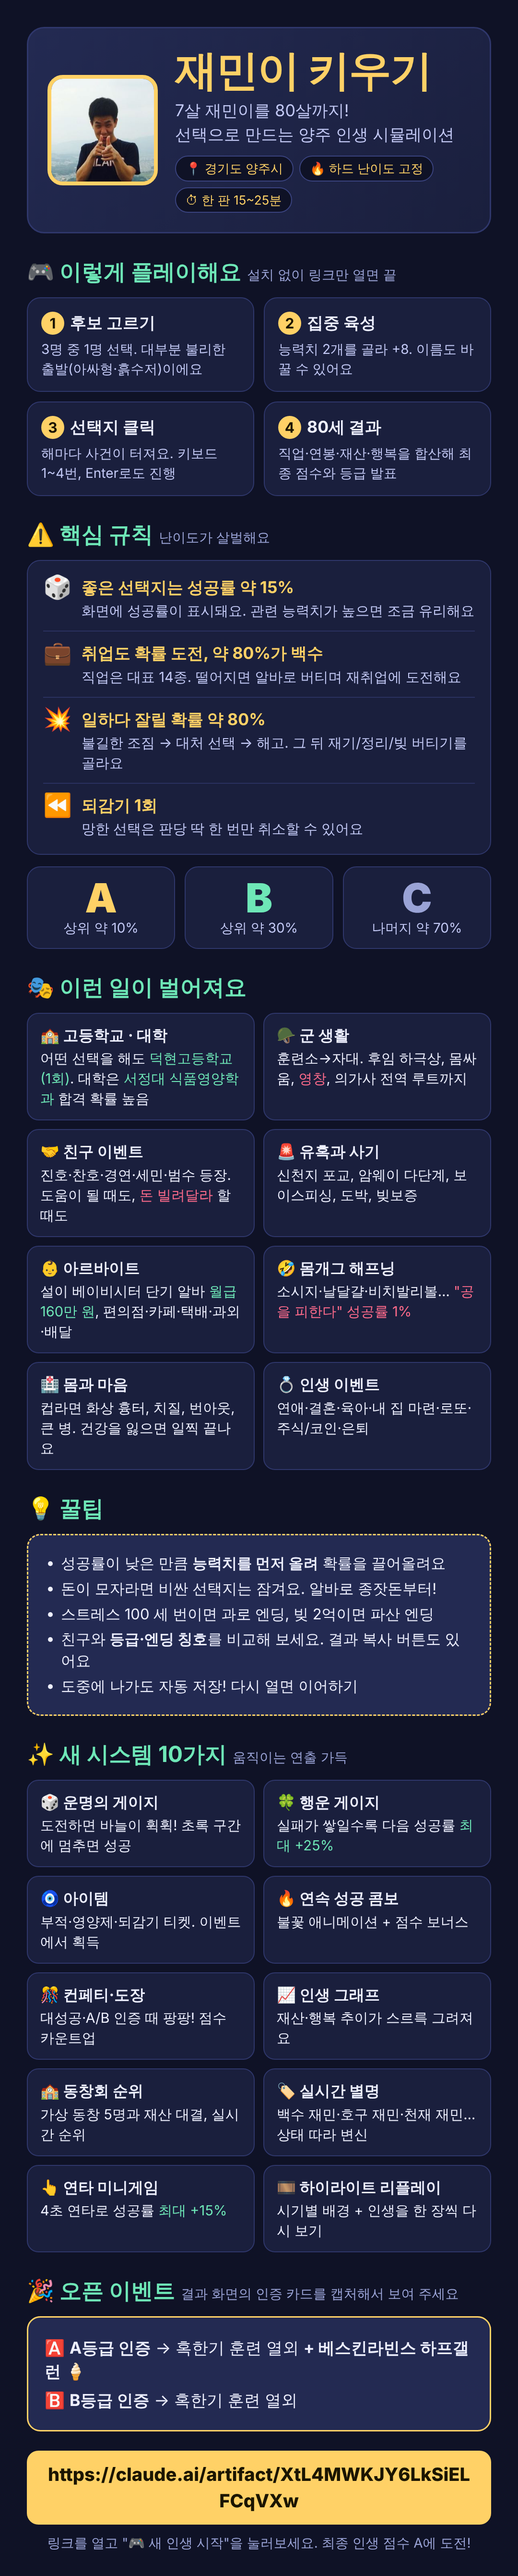
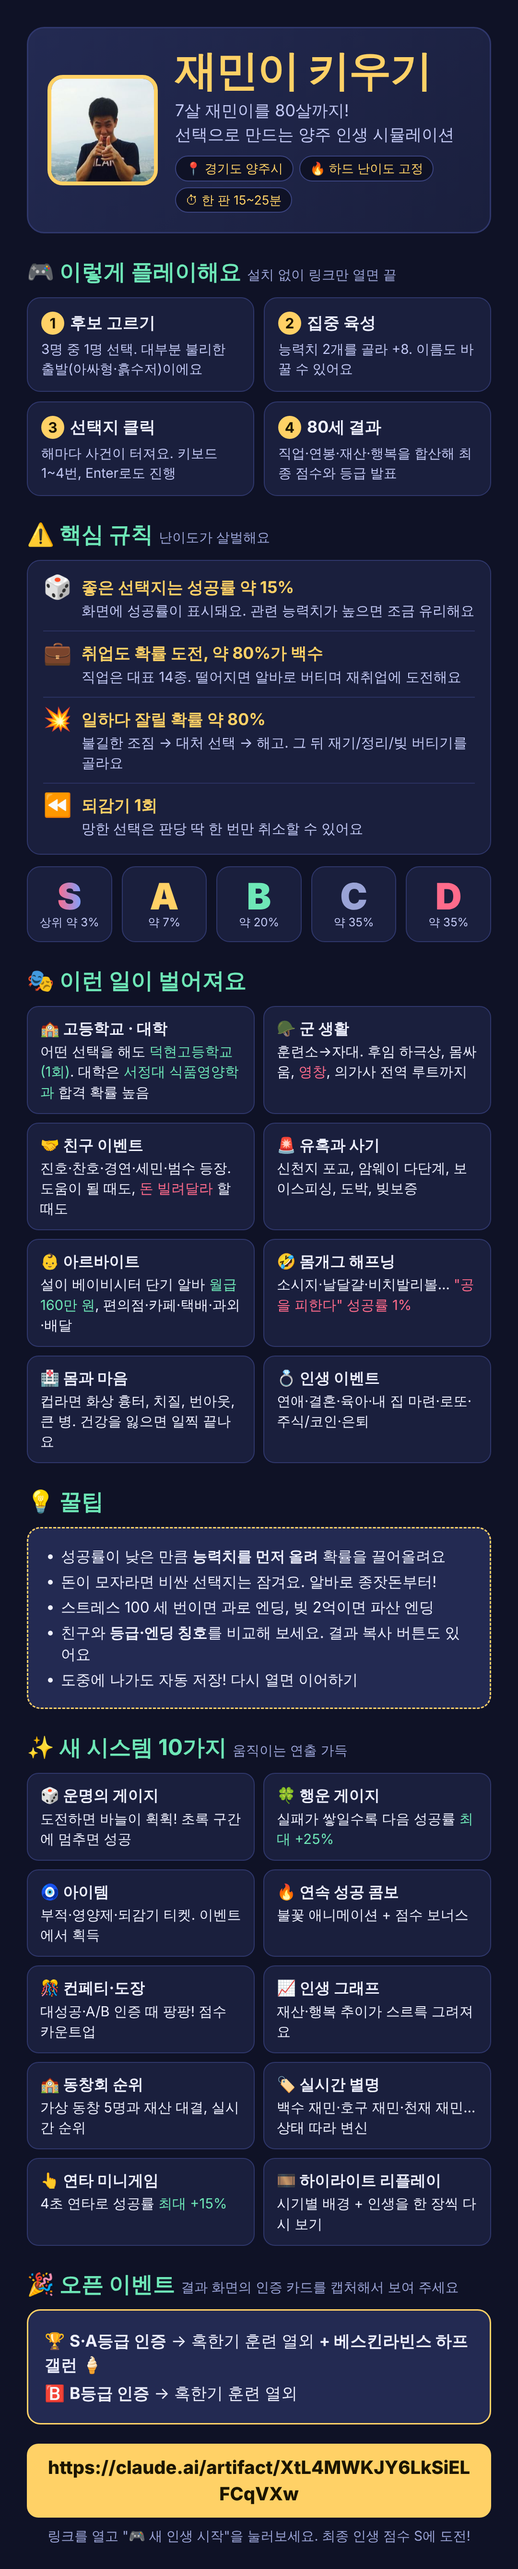
등급을 S·A·B·C·D 5단계로 세분화, 오픈 이벤트는 S·A 열외+하프갤런
Claude-Session: https://claude.ai/code/session_01KcVp1sZmDzAR7Cn2msBevK

diff --git a/index.html b/index.html
@@ -99,6 +99,8 @@ body[data-stage=old]::before{background-image:linear-gradient(135deg,#6a4a2a44,#
 .nick.pop{animation:nickpop 1.2s}@keyframes nickpop{0%{transform:scale(.4);opacity:0}50%{transform:scale(1.4)}100%{transform:scale(1);opacity:1}}
 .pill.rk{animation:pop .8s}
 #app{overflow-x:clip}.card.center{overflow:hidden}
+.grade.gS{background:linear-gradient(90deg,#ffd166,#ff6b8b,#7aa2ff,#6ee7b7);-webkit-background-clip:text;background-clip:text;color:transparent;filter:drop-shadow(0 0 10px #ffd16688)}
+.grade.gD{color:var(--bad)}.grade.gC{color:var(--mut)}
 .grade.stamp{animation:stampin .7s cubic-bezier(.2,1.6,.4,1) both}
 @keyframes stampin{0%{transform:scale(4) rotate(-25deg);opacity:0}60%{transform:scale(.9) rotate(-5deg);opacity:1}100%{transform:scale(1) rotate(-3deg)}}
 .chart{width:100%;height:auto;margin-top:8px}
@@ -1266,7 +1268,7 @@ function calc(){
   let pen=S.over==='bankrupt'?-80:S.over==='health'?-70:S.over==='karoshi'?-90:0;
   const parts=[['재산',wealth,250],['연봉',inc,100],['행복',hap,150],['능력',abil,100],['가족',fam,110],['업적',ach,100],['콤보',Math.min(60,(S.maxCombo||0)*10),60],['스트레스',stp,0],['엔딩',pen,0]];
   const total=Math.round(parts.reduce((p,x)=>p+x[1],0));
-  const grade=total>=280?'A':total>=172?'B':'C'; /* 목표 비율 A:B:C = 1:2:7 (자동 플레이 500판 기준 보정) */
+  const grade=total>=385?'S':total>=252?'A':total>=158?'B':total>=90?'C':'D'; /* 목표 비율 S3 : A7 : B20 : C35 : D35 (자동 플레이 기준 보정) */
   return {total,grade,parts};
 }
 function ending(){
@@ -1373,10 +1375,10 @@ function endView(){
   if(!S.done){S.done=1;META.runs++;META.pts+=Math.floor(sc.total/40)+1;META.best=Math.max(META.best,sc.total);
     META.ranks.push({name:S.name,score:sc.total,grade:sc.grade,title:en[1],age:S.age,job:S.job?JOBS[S.job].n:'-',net:Math.round(net()),d:new Date().toLocaleDateString('ko-KR')});
     META.ranks.sort((a,b)=>b.score-a.score);META.ranks=META.ranks.slice(0,20);checkAch();saveMeta();try{localStorage.removeItem('jmk_save')}catch(e){}}
-  sc.grade==='F'||S.over&&S.over!=='natural'?sBad():sGood();
+  sc.grade==='D'||S.over&&S.over!=='natural'?sBad():sGood();
   const ach=Object.keys(S.runAch).map(id=>ACH.find(a=>a[0]===id)[1]);
-  const share=`🧒 재민이 키우기 | ${S.name} (${S.age}세) | 등급 ${sc.grade} · ${sc.total}점 | ${en[1]} | ${sc.grade==='A'?'🎁 A인증(열외+하프갤런) '+stampCode(S.name,sc.total,S.age,sc.grade):sc.grade==='B'?'🎁 B인증(열외) '+stampCode(S.name,sc.total,S.age,sc.grade):'이벤트 도전 중'} | 직업 ${S.job&&S.job!=='none'?JOBS[S.job].n:'없음'} | 순자산 ${fmt(net())} | 연봉 최고 ${fmt(S.peakS)}`;
-  $('#main').innerHTML=`<div class="card center"><div class="big-av">${avatar(210)}</div><div class="mut">최종 인생 점수</div><div class="grade stamp">${sc.grade}</div><h2 id="scoreNum">0점</h2><div class="nick" style="margin:0 0 6px">🏷 ${esc(S.nick||'')}</div>
+  const share=`🧒 재민이 키우기 | ${S.name} (${S.age}세) | 등급 ${sc.grade} · ${sc.total}점 | ${en[1]} | ${(sc.grade==='S'||sc.grade==='A')?'🎁 '+sc.grade+'인증(열외+하프갤런) '+stampCode(S.name,sc.total,S.age,sc.grade):sc.grade==='B'?'🎁 B인증(열외) '+stampCode(S.name,sc.total,S.age,sc.grade):'이벤트 도전 중'} | 직업 ${S.job&&S.job!=='none'?JOBS[S.job].n:'없음'} | 순자산 ${fmt(net())} | 연봉 최고 ${fmt(S.peakS)}`;
+  $('#main').innerHTML=`<div class="card center"><div class="big-av">${avatar(210)}</div><div class="mut">최종 인생 점수</div><div class="grade stamp g${sc.grade}">${sc.grade}</div><h2 id="scoreNum">0점</h2><div class="nick" style="margin:0 0 6px">🏷 ${esc(S.nick||'')}</div>
   <div style="font-size:40px">${en[0]}</div><h2>${en[1]}</h2><p class="mut">${en[2]}</p></div>
   ${evtCard(sc,en)}
   <div class="card"><b>📈 내 인생 그래프</b>${chartSVG(S.hist)}</div>
@@ -1390,7 +1392,7 @@ function endView(){
   <div class="row"><button class="btn c" id="shr">📋 결과 복사/공유</button><button class="btn c" id="rk">🏅 랭킹 보기</button></div>`;
   $('#rpl').onclick=replay;
   countUp($('#scoreNum'),sc.total,1300);
-  if(sc.grade==='A'||sc.grade==='B')setTimeout(()=>confetti(sc.grade==='A'?220:140),500);
+  if(sc.grade==='S'||sc.grade==='A'||sc.grade==='B')setTimeout(()=>confetti(sc.grade==='S'?320:sc.grade==='A'?220:140),500);
   $('#again').onclick=()=>{S=null;VIEW='create';create()};
   $('#shr').onclick=()=>{try{navigator.clipboard.writeText(share);toast('복사했어요!')}catch(e){prompt('복사하세요',share)}};
   $('#rk').onclick=()=>{VIEW='rank';rankView()};
@@ -1410,8 +1412,8 @@ function stampCode(name,score,age,grade){
 }
 function evtCard(sc,en){
   const d=new Date().toLocaleDateString('ko-KR');
-  if(sc.grade==='A'||sc.grade==='B'){
-    const rw=sc.grade==='A'?'혹한기 훈련 열외 + 베스킨라빈스 하프갤런 🍦':'혹한기 훈련 열외';
+  if(sc.grade==='S'||sc.grade==='A'||sc.grade==='B'){
+    const rw=(sc.grade==='S'||sc.grade==='A')?'혹한기 훈련 열외 + 베스킨라빈스 하프갤런 🍦':'혹한기 훈련 열외';
     return `<div class="cert"><div class="mut">🎉 재민이 게임 오픈 이벤트</div>
      <h2>${sc.grade}등급 인증!</h2>
      <p><b>${esc(S.name)}</b> · ${sc.total}점 · ${S.age}세 · ${esc(en[1])}</p>
@@ -1419,7 +1421,7 @@ function evtCard(sc,en){
      <div class="code">${stampCode(S.name,sc.total,S.age,sc.grade)}</div>
      <p class="mut">${d} · 이 카드를 캡처해서 재민이에게 보여 주세요!</p></div>`;
   }
-  return `<div class="evt"><h3>🎉 오픈 이벤트</h3><p>아쉽지만 C등급이에요. <b>B등급 이상</b>이면 혹한기 훈련 열외!<br>A등급이면 베스킨라빈스 하프갤런까지 🍦</p><p class="mut">다시 키우기로 재도전하세요!</p></div>`;
+  return `<div class="evt"><h3>🎉 오픈 이벤트</h3><p>아쉽지만 ${sc.grade}등급이에요. <b>B등급 이상</b>이면 혹한기 훈련 열외!<br>A등급 이상이면 베스킨라빈스 하프갤런까지 🍦</p><p class="mut">다시 키우기로 재도전하세요!</p></div>`;
 }
 function rankView(){
   const rk=META.ranks;
@@ -1429,7 +1431,7 @@ function rankView(){
   <button class="btn pri" id="back">◀ 돌아가기</button>`;
   $('#back').onclick=()=>{VIEW=S&&S.over?'play':'title';render()};
 }
-const FEATURES=['시작 후보 3명 중 선택(불리한 출발 80% : 좋은 출발 20%, 아싸형·불우한 환경 위주)','집중 육성 능력치 2개','태어난 집안(금수저/평범/흙수저)','숨은 재능 8종(천재, 강골, 행운아, 불운의 아이 등)','오늘의 운세(날짜별 확률 보정)','하드 난이도 고정(성공률 대폭 하향: 전체 ×0.75 -8%, 관련 능력치가 낮으면 더 불리, 스트레스 ×1.4, 지출 ×1.3)','재미있게 공부한다(머리가 안 따라주면 실패) 등 능력치 의존 도전 선택지','정상 만기 전역도 확률 도전(실패하면 적응 위기 → 도움 요청 → 의가사 루트)','환생 포인트로 능력치 보너스','7~80세 나이별 아바타 변화','시즌(해)마다 스트레스·행복 자동 변동','확률 도전 선택지(성공률 표시)','능력치에 따른 성공률 보정','학원/동아리/연애 등 성장기 이벤트 15종','수능 결과 → 대학 선택 → 재수','군대 이벤트(카투사 도전)','대표 직업 14종 + 백수(의사·변호사·개발자·대기업·공무원·교사·중소기업·경찰/소방·직업군인·요리사·유튜버·연예인·운동선수·창업가), 능력·학력 요건 잠금','입사 연봉 협상 미니게임','정기 연봉 협상(성과/이직 카드)','승진 심사와 직급 체계','이직 제안','갑질 상사/구조조정','가변 소득 직업(유튜버·연예인·창업가 등)','운동선수 전성기·은퇴 기로','부업 이벤트','주식/코인 투자(변동성 시뮬)','경제 위기·대세상승장 이벤트','내 집 마련(영끌)','로또(2% 당첨)','보이스피싱','빚보증 / 사촌의 투자 권유','도박 중독과 단도박 이벤트','창업 대박 아이디어','유튜브 채널 개설','국회의원 출마(히든 루트)','소개팅 → 연애 → 프러포즈 → 결혼','자녀 시스템과 육아·입시','이혼 위기','반려동물 입양','여행/취미/동창회 이벤트','건강검진·큰 병·교통사고','번아웃 3회 시 과로 엔딩','유산 상속','부모님 간병','정년퇴임과 연금','손주 탄생','마지막 선택(기부/가족/탕진)','24개 업적과 도감','엔딩 칭호 16종(성공·평범·망한 인생)','과거로 돌아가기(되감기 1회)','등급 A/B/C(목표 비율 1:2:7) + 점수 항목별 그래프','인생 이야기 타임라인','로컬 랭킹 TOP20','결과 공유 텍스트 복사','자동 저장·이어하기·파일 내보내기/가져오기','효과음 & 라이트/다크 테마','키보드 단축키(1~4, Enter)','실명 친구 4인(이진호·이찬호·김경연·박세민) 사귐/거절 이벤트와 후속 이벤트','친구 둘 이상 사귀면 사총사 모임 발생','신천지 포교 → 탈퇴 시도 연계 이벤트','암웨이(다단계) 가입 → 재고 처리 연계 이벤트','여자친구를 따라 부산으로 이사 이벤트','인형뽑기·코인노래방·UFO·점집·치킨집·헬스장 등 소소한 선택지','군 복무 연쇄 이벤트(훈련소→자대→중반→전역)','군 적응 위기 시 도움 요청 선택지와 상담전화 안내','의가사 전역 루트와 전역 후 마음 돌보기 이벤트','후임 하극상 → 몸싸움 → 징계/영창 연쇄 이벤트','경기도 양주시 배경 이벤트(덕정역 출퇴근·나리공원·불곡산·별산대놀이·장흥·옥정/회천 신도시)','기분 좋아서 쏘다가 지갑 털리는 이벤트(하프갤런·피자·치킨)','몸개그 해프닝(오이고추 가방·소시지·날달걀·비치발리볼·방귀)','화상 흉터 이벤트(컵라면·치킨 튀김 알바)','전범수와의 말싸움 이벤트','같은 반 친구와 눈 마주치는 순한 짝사랑 이벤트','재민이 사진이 모든 화면에 등장(로고·시작·캐릭터 만들기·7세부터 80세까지·결과)하고 직업·나이·기분·상황에 따라 사진과 모자/소품/테두리 변화','일하다 잘리는 스토리(직업을 가진 사람의 약 80%): 불길한 조짐 → 대처 선택 → 해고(폐업·권고사직·슬럼프·징계 등) → 재기/정리/빚 버티기','친구에게 돈 빌려주기(100만/500만/3000만) + 못 받은 돈 독촉 후속 이벤트','모든 선택지가 확률 도전(성공하면 원래 효과, 실패하면 역효과) · 창의적 초저확률 선택지(공을 피한다 1% 등)','늦잠·소나기·지하철 자리·가챠·층간소음·회식 폭탄주·타이어 펑크 등 신규 해프닝 8종','취업도 확률 도전(성공률 약 55%, 낮은 능력치면 더 낮음) · 실패하면 백수, 이후 재취업 도전 이벤트 · 약 80%가 백수로 사는 하드 난이도','아르바이트 이벤트(설이 베이비시터 단기알바 월급 160, 편의점·카페·택배·과외·배달 등)','모든 좋은 선택지는 극악 확률(약 15%)','치질(항문이 아픈) 스토리: 병원/좌욕/참기 선택 → 방치하면 수술 후속 이벤트','고교는 어떤 선택이든 덕현고등학교(1회) 입학 · 수능 후 서정대학교 식품영양학과(합격률 85%) 선택지','결과 멘트 자극적·웃기게 전면 개편(상황별 실패 멘트 50여 종 + 결과마다 💬 해설 한마디 + 성공 멘트 110여 개 재작성)','파산 기준 완화(빚 5억) · 백수 생활비 완화(40세부터, 부담 절반 이하) · 체력 노화 속도 완화로 80세 완주 비율 상승','오픈 이벤트: A등급 인증 → 혹한기 훈련 열외 + 베스킨라빈스 하프갤런 / B등급 인증 → 혹한기 훈련 열외 (시작 화면 배너 + 결과 인증 카드·도장 코드)','시스템① 운명의 게이지: 도전할 때마다 바늘이 움직여 성공/실패가 갈리는 연출','시스템② 행운 게이지(천장): 실패가 쌓일수록 다음 도전 성공률 최대 +25%','시스템③ 아이템: 행운의 부적·영양제·되감기 티켓 (이벤트에서 획득, 도전 전에 사용)','시스템④ 연속 성공 콤보: 불꽃 애니메이션 + 최고 콤보 점수 보너스','시스템⑤ 컨페티·도장 쾅·점수 카운트업 연출(대성공·A/B 인증)','시스템⑥ 인생 그래프: 재산·행복 추이가 애니메이션으로 그려짐','시스템⑦ 동창회 순위: 가상 동창 5명과 재산 비교, 실시간 순위·결과 막대 그래프','시스템⑧ 실시간 별명: 상태에 따라 별명이 바뀌고 팝업(백수 재민, 호구 재민, 천재 재민 등)','시스템⑨ 연타 미니게임: 4초 연타로 성공률 최대 +15%','시스템⑩ 시기별 배경 연출 + 인생 하이라이트 리플레이(타임라인 애니메이션 재생)','일상 코미디 이벤트 2탄 18종(종점 버스·배달 오배송·폰 분실·길거리 캐스팅·결혼식·캠핑·당근마켓·다이어트·바퀴벌레·방송 사고·돼지꿈 등)'];
+const FEATURES=['시작 후보 3명 중 선택(불리한 출발 80% : 좋은 출발 20%, 아싸형·불우한 환경 위주)','집중 육성 능력치 2개','태어난 집안(금수저/평범/흙수저)','숨은 재능 8종(천재, 강골, 행운아, 불운의 아이 등)','오늘의 운세(날짜별 확률 보정)','하드 난이도 고정(성공률 대폭 하향: 전체 ×0.75 -8%, 관련 능력치가 낮으면 더 불리, 스트레스 ×1.4, 지출 ×1.3)','재미있게 공부한다(머리가 안 따라주면 실패) 등 능력치 의존 도전 선택지','정상 만기 전역도 확률 도전(실패하면 적응 위기 → 도움 요청 → 의가사 루트)','환생 포인트로 능력치 보너스','7~80세 나이별 아바타 변화','시즌(해)마다 스트레스·행복 자동 변동','확률 도전 선택지(성공률 표시)','능력치에 따른 성공률 보정','학원/동아리/연애 등 성장기 이벤트 15종','수능 결과 → 대학 선택 → 재수','군대 이벤트(카투사 도전)','대표 직업 14종 + 백수(의사·변호사·개발자·대기업·공무원·교사·중소기업·경찰/소방·직업군인·요리사·유튜버·연예인·운동선수·창업가), 능력·학력 요건 잠금','입사 연봉 협상 미니게임','정기 연봉 협상(성과/이직 카드)','승진 심사와 직급 체계','이직 제안','갑질 상사/구조조정','가변 소득 직업(유튜버·연예인·창업가 등)','운동선수 전성기·은퇴 기로','부업 이벤트','주식/코인 투자(변동성 시뮬)','경제 위기·대세상승장 이벤트','내 집 마련(영끌)','로또(2% 당첨)','보이스피싱','빚보증 / 사촌의 투자 권유','도박 중독과 단도박 이벤트','창업 대박 아이디어','유튜브 채널 개설','국회의원 출마(히든 루트)','소개팅 → 연애 → 프러포즈 → 결혼','자녀 시스템과 육아·입시','이혼 위기','반려동물 입양','여행/취미/동창회 이벤트','건강검진·큰 병·교통사고','번아웃 3회 시 과로 엔딩','유산 상속','부모님 간병','정년퇴임과 연금','손주 탄생','마지막 선택(기부/가족/탕진)','24개 업적과 도감','엔딩 칭호 16종(성공·평범·망한 인생)','과거로 돌아가기(되감기 1회)','등급 S·A·B·C·D 5단계(상위 3% / 7% / 20% / 35% / 35%) + 점수 항목별 그래프','인생 이야기 타임라인','로컬 랭킹 TOP20','결과 공유 텍스트 복사','자동 저장·이어하기·파일 내보내기/가져오기','효과음 & 라이트/다크 테마','키보드 단축키(1~4, Enter)','실명 친구 4인(이진호·이찬호·김경연·박세민) 사귐/거절 이벤트와 후속 이벤트','친구 둘 이상 사귀면 사총사 모임 발생','신천지 포교 → 탈퇴 시도 연계 이벤트','암웨이(다단계) 가입 → 재고 처리 연계 이벤트','여자친구를 따라 부산으로 이사 이벤트','인형뽑기·코인노래방·UFO·점집·치킨집·헬스장 등 소소한 선택지','군 복무 연쇄 이벤트(훈련소→자대→중반→전역)','군 적응 위기 시 도움 요청 선택지와 상담전화 안내','의가사 전역 루트와 전역 후 마음 돌보기 이벤트','후임 하극상 → 몸싸움 → 징계/영창 연쇄 이벤트','경기도 양주시 배경 이벤트(덕정역 출퇴근·나리공원·불곡산·별산대놀이·장흥·옥정/회천 신도시)','기분 좋아서 쏘다가 지갑 털리는 이벤트(하프갤런·피자·치킨)','몸개그 해프닝(오이고추 가방·소시지·날달걀·비치발리볼·방귀)','화상 흉터 이벤트(컵라면·치킨 튀김 알바)','전범수와의 말싸움 이벤트','같은 반 친구와 눈 마주치는 순한 짝사랑 이벤트','재민이 사진이 모든 화면에 등장(로고·시작·캐릭터 만들기·7세부터 80세까지·결과)하고 직업·나이·기분·상황에 따라 사진과 모자/소품/테두리 변화','일하다 잘리는 스토리(직업을 가진 사람의 약 80%): 불길한 조짐 → 대처 선택 → 해고(폐업·권고사직·슬럼프·징계 등) → 재기/정리/빚 버티기','친구에게 돈 빌려주기(100만/500만/3000만) + 못 받은 돈 독촉 후속 이벤트','모든 선택지가 확률 도전(성공하면 원래 효과, 실패하면 역효과) · 창의적 초저확률 선택지(공을 피한다 1% 등)','늦잠·소나기·지하철 자리·가챠·층간소음·회식 폭탄주·타이어 펑크 등 신규 해프닝 8종','취업도 확률 도전(성공률 약 55%, 낮은 능력치면 더 낮음) · 실패하면 백수, 이후 재취업 도전 이벤트 · 약 80%가 백수로 사는 하드 난이도','아르바이트 이벤트(설이 베이비시터 단기알바 월급 160, 편의점·카페·택배·과외·배달 등)','모든 좋은 선택지는 극악 확률(약 15%)','치질(항문이 아픈) 스토리: 병원/좌욕/참기 선택 → 방치하면 수술 후속 이벤트','고교는 어떤 선택이든 덕현고등학교(1회) 입학 · 수능 후 서정대학교 식품영양학과(합격률 85%) 선택지','결과 멘트 자극적·웃기게 전면 개편(상황별 실패 멘트 50여 종 + 결과마다 💬 해설 한마디 + 성공 멘트 110여 개 재작성)','파산 기준 완화(빚 5억) · 백수 생활비 완화(40세부터, 부담 절반 이하) · 체력 노화 속도 완화로 80세 완주 비율 상승','오픈 이벤트: S·A등급 인증 → 혹한기 훈련 열외 + 베스킨라빈스 하프갤런 / B등급 인증 → 혹한기 훈련 열외 (시작 화면 배너 + 결과 인증 카드·도장 코드)','시스템① 운명의 게이지: 도전할 때마다 바늘이 움직여 성공/실패가 갈리는 연출','시스템② 행운 게이지(천장): 실패가 쌓일수록 다음 도전 성공률 최대 +25%','시스템③ 아이템: 행운의 부적·영양제·되감기 티켓 (이벤트에서 획득, 도전 전에 사용)','시스템④ 연속 성공 콤보: 불꽃 애니메이션 + 최고 콤보 점수 보너스','시스템⑤ 컨페티·도장 쾅·점수 카운트업 연출(대성공·A/B 인증)','시스템⑥ 인생 그래프: 재산·행복 추이가 애니메이션으로 그려짐','시스템⑦ 동창회 순위: 가상 동창 5명과 재산 비교, 실시간 순위·결과 막대 그래프','시스템⑧ 실시간 별명: 상태에 따라 별명이 바뀌고 팝업(백수 재민, 호구 재민, 천재 재민 등)','시스템⑨ 연타 미니게임: 4초 연타로 성공률 최대 +15%','시스템⑩ 시기별 배경 연출 + 인생 하이라이트 리플레이(타임라인 애니메이션 재생)','일상 코미디 이벤트 2탄 18종(종점 버스·배달 오배송·폰 분실·길거리 캐스팅·결혼식·캠핑·당근마켓·다이어트·바퀴벌레·방송 사고·돼지꿈 등)'];
 function info(){
   $('#main').innerHTML=`<div class="card"><h2>✨ 추가된 재미 요소 ${FEATURES.length}가지</h2><ol style="padding-left:18px;font-size:14px">${FEATURES.map(f=>`<li>${f}</li>`).join('')}</ol></div><button class="btn pri" id="back">◀ 돌아가기</button>`;
   $('#back').onclick=()=>{VIEW='title';render()};
@@ -1442,7 +1444,7 @@ function title(){
   <p>🔮 오늘의 운세: <b>${f[0]}</b> ${f[1]}<br><span class="mut">${f[3]}</span></p></div>
   <div class="evt"><h3>🎉 재민이 게임 오픈 이벤트!</h3>
    <p>최종 등급을 <b>인증</b>하면 선물이 팡팡!</p>
-   <span class="rw">🅰 A등급 인증 → 혹한기 훈련 열외 + 베스킨라빈스 하프갤런 🍦</span>
+   <span class="rw">🏆 S·A등급 인증 → 혹한기 훈련 열외 + 베스킨라빈스 하프갤런 🍦</span>
    <span class="rw">🅱 B등급 인증 → 혹한기 훈련 열외</span>
    <p class="mut">결과 화면의 인증 카드를 캡처해서 재민이에게 보여 주세요.</p></div>
   <button class="btn pri" id="nw">🎮 새 인생 시작</button>

diff --git a/README.md b/README.md
@@ -1,6 +1,6 @@
 # 🧒 재민이 키우기
 
-경기도 양주시에서 자란 7살 재민이를 80살까지 키우는 선택형 인생 시뮬레이션(하드 난이도 고정). 직업·연봉을 정하고 최종 인생 점수(A/B/C 등급, 비율 약 1:2:7)로 평가받는다.
+경기도 양주시에서 자란 7살 재민이를 80살까지 키우는 선택형 인생 시뮬레이션(하드 난이도 고정). 직업·연봉을 정하고 최종 인생 점수(S·A·B·C·D 5단계 등급)로 평가받는다.
 
 - 실행: `index.html`을 브라우저로 열면 끝 (설치/서버 불필요, 한 판 약 15~25분)
 - 참고: kickru.com "벤치에서 발롱까지"의 흐름(후보 선택 → 시즌 진행+선택 사건 → 은퇴 후 인생 정리·랭킹·자동저장)을 인생 시뮬레이션으로 옮김
@@ -57,7 +57,7 @@
 48. 24개 업적과 도감
 49. 엔딩 칭호 16종(성공·평범·망한 인생)
 50. 과거로 돌아가기(되감기 1회)
-51. 등급 A/B/C(목표 비율 1:2:7) + 점수 항목별 그래프
+51. 등급 S·A·B·C·D 5단계(상위 3% / 7% / 20% / 35% / 35%) + 점수 항목별 그래프
 52. 인생 이야기 타임라인
 53. 로컬 랭킹 TOP20
 54. 결과 공유 텍스트 복사
@@ -92,7 +92,7 @@
 83. 고교는 어떤 선택이든 덕현고등학교(1회) 입학 · 수능 후 서정대학교 식품영양학과(합격률 85%) 선택지
 84. 결과 멘트 자극적·웃기게 전면 개편(상황별 실패 멘트 50여 종 + 결과마다 💬 해설 한마디 + 성공 멘트 110여 개 재작성)
 85. 파산 기준 완화(빚 5억) · 백수 생활비 완화(40세부터, 부담 절반 이하) · 체력 노화 속도 완화로 80세 완주 비율 상승
-86. 오픈 이벤트: A등급 인증 → 혹한기 훈련 열외 + 베스킨라빈스 하프갤런 / B등급 인증 → 혹한기 훈련 열외 (시작 화면 배너 + 결과 인증 카드·도장 코드)
+86. 오픈 이벤트: S·A등급 인증 → 혹한기 훈련 열외 + 베스킨라빈스 하프갤런 / B등급 인증 → 혹한기 훈련 열외 (시작 화면 배너 + 결과 인증 카드·도장 코드)
 87. 시스템① 운명의 게이지: 도전할 때마다 바늘이 움직여 성공/실패가 갈리는 연출
 88. 시스템② 행운 게이지(천장): 실패가 쌓일수록 다음 도전 성공률 최대 +25%
 89. 시스템③ 아이템: 행운의 부적·영양제·되감기 티켓 (이벤트에서 획득, 도전 전에 사용)
